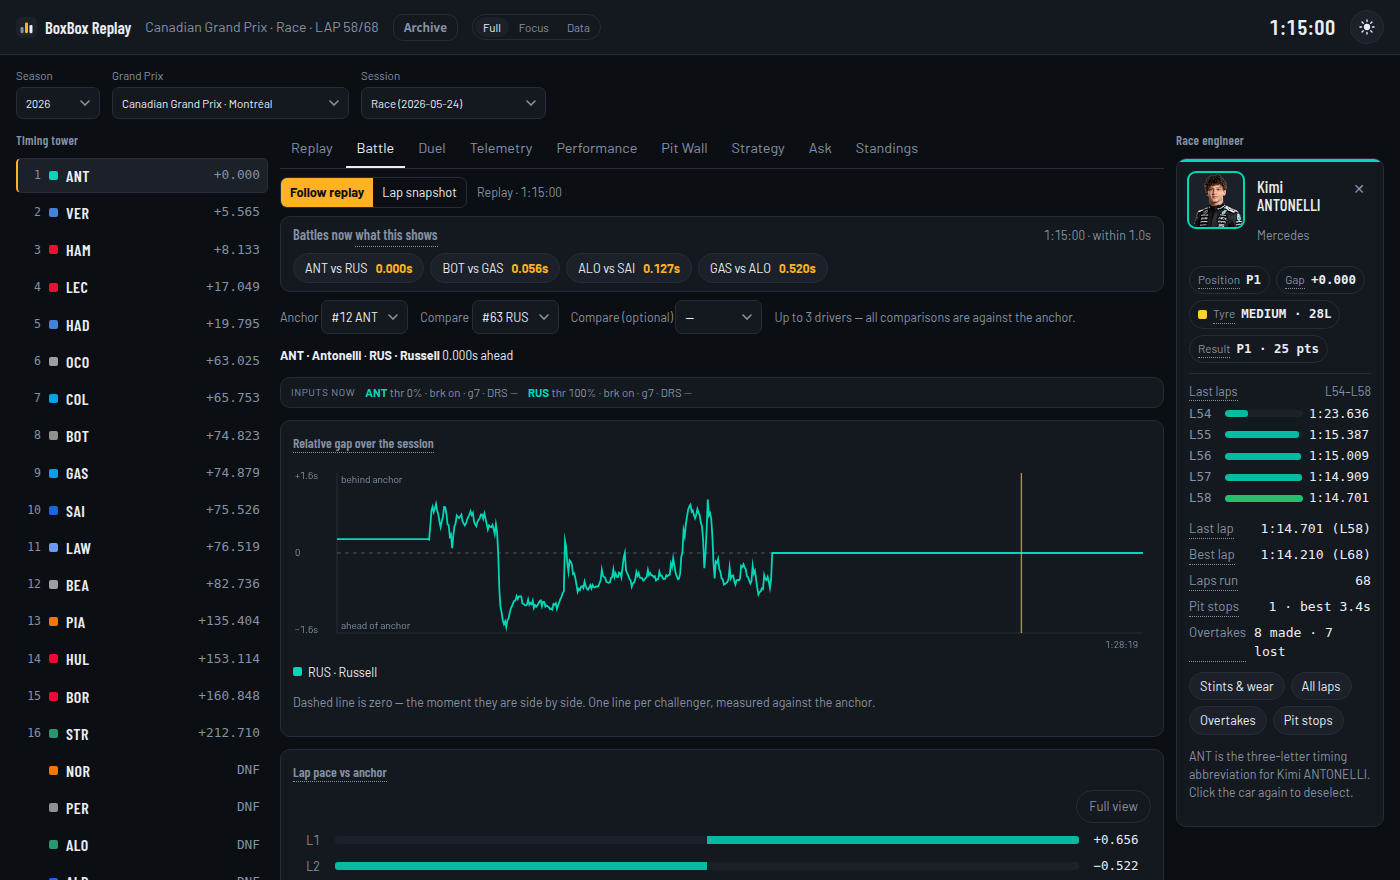
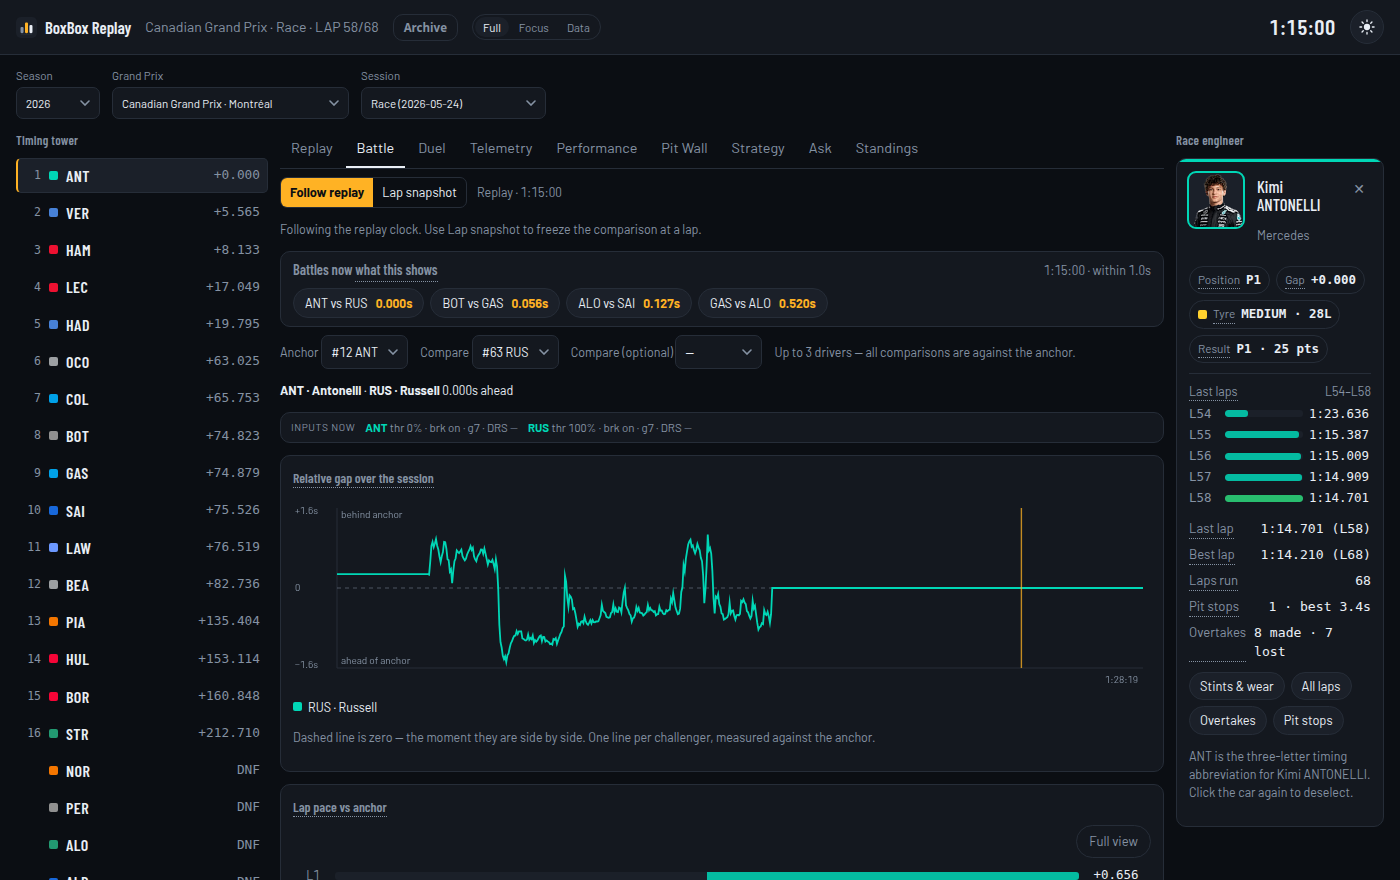
fix(v3.9): make battle snapshots truncate history; key headshot state per driver
- Battle snapshot stops the relative-gap chart, pace rows, overtakes and full-view
  pace modal at the selected lap; the note states the replay clock/tower are unchanged
- driver headshot ready/failed state is keyed by driver_number + URL, fixing stale
  fallbacks when switching cards
- share-card rotation re-verified at 1200x630
- 89 pytest + 74 vitest; docs/screenshots/state updated

diff --git a/web/src/components/BattlePanel.tsx b/web/src/components/BattlePanel.tsx
@@ -105,7 +105,8 @@ export default function BattlePanel(p: Props) {
 
   const lapsOf = (d: number) =>
     p.laps.filter((l) => l.driver_number === d && l.lap_duration != null).sort((x, y) => x.lap_number - y.lap_number);
-  const lapsAnchor = lapsOf(anchor);
+  const snapshotLap = scope === "lap" ? fixedMarker?.lap_number ?? Number.POSITIVE_INFINITY : Number.POSITIVE_INFINITY;
+  const lapsAnchor = lapsOf(anchor).filter((lap) => lap.lap_number <= snapshotLap);
   const bestOf = (d: number) => {
     const ls = lapsOf(d);
     return ls.length ? Math.min(...ls.map((l) => l.lap_duration as number)) : null;
@@ -180,6 +181,11 @@ export default function BattlePanel(p: Props) {
           </button>
         )}
       </div>
+      <p className="dim small battle-scope-note">
+        {scope === "replay"
+          ? "Following the replay clock. Use Lap snapshot to freeze the comparison at a lap."
+          : "Snapshot freezes Battles now, gap values, pace and inputs through this lap; the session charts stop at the snapshot. The main replay clock and tower are unchanged."}
+      </p>
 
       <section className="battles-now" aria-label="Battles at the current frame">
         <div className="battles-head">
@@ -291,11 +297,19 @@ export default function BattlePanel(p: Props) {
       <div className="panel">
         <h3>
           <Info
-            label="Relative gap over the session"
+            label={scope === "lap" ? `Relative gap through lap ${fixedMarker?.lap_number ?? "—"}` : "Relative gap over the session"}
             tip="Each line is a challenger's gap to the leader minus the anchor's. Above the line means that driver is behind the anchor; below means ahead. Hover for values."
           />
         </h3>
-        <RelativeGap playback={p.playback} table={p.table} anchor={anchor} challengers={challengers} colors={p.colors} labels={p.labels} />
+        <RelativeGap
+          playback={p.playback}
+          table={p.table}
+          anchor={anchor}
+          challengers={challengers}
+          colors={p.colors}
+          labels={p.labels}
+          endT={scope === "lap" ? now : p.playback.state.dur}
+        />
         <p className="dim small">
           Dashed line is zero — the moment they are side by side. One line per challenger, measured against the
           anchor.
@@ -378,6 +392,7 @@ export default function BattlePanel(p: Props) {
           const all = [anchor, ...challengers];
           const rel = p.overtakes
             .filter((o) => all.includes(o.overtaking_driver_number) || all.includes(o.overtaken_driver_number))
+            .filter((o) => scope === "replay" || o.t <= now)
             .sort((x, y) => x.t - y.t)
             .slice(0, 8);
           if (!rel.length) return <p className="dim small">None recorded involving these drivers.</p>;
@@ -411,6 +426,7 @@ export default function BattlePanel(p: Props) {
           challengers={challengers}
           labels={p.labels}
           colors={p.colors}
+          throughLap={scope === "lap" ? fixedMarker?.lap_number : undefined}
         />
       </Modal>
 
@@ -458,10 +474,11 @@ function RelativeGap(p: {
   challengers: number[];
   colors: Map<number, string>;
   labels: Map<number, string>;
+  endT?: number;
 }) {
   const { canvasRef, wrapRef, width, dpr } = useCanvasSize(H);
   const [hoverT, setHoverT] = useState<number | null>(null);
-  const dur = Math.max(1, p.playback.state.dur);
+  const dur = Math.max(1, p.endT ?? p.playback.state.dur);
 
   const series = useMemo(() => {
     const step = Math.max(1, dur / 700);

diff --git a/web/src/components/DriverCard.tsx b/web/src/components/DriverCard.tsx
@@ -1,4 +1,4 @@
-import { useEffect, useState } from "react";
+import { useState } from "react";
 import { compoundColor } from "../format";
 import { formatLapTime } from "../format";
 import Info from "./Info";
@@ -34,14 +34,11 @@ export default function DriverCard(p: Props) {
   const slowestRecent = recent.length ? Math.max(...recent.map((l) => l.lap_duration as number)) : null;
   const tyreAge = p.stint?.lap_start != null ? Math.max(1, p.lap - p.stint.lap_start + 1) : null;
   const color = `#${(p.driver.team_colour ?? "").replace("#", "")}`;
-  const [imageFailed, setImageFailed] = useState(false);
-  const [imageReady, setImageReady] = useState(false);
   const headshot = p.driver.headshot_url?.trim();
-
-  useEffect(() => {
-    setImageFailed(false);
-    setImageReady(false);
-  }, [p.driver.driver_number, headshot]);
+  const imageKey = `${p.driver.driver_number}:${headshot ?? ""}`;
+  const [imageState, setImageState] = useState({ key: "", ready: false, failed: false });
+  const imageReady = imageState.key === imageKey && imageState.ready;
+  const imageFailed = imageState.key === imageKey && imageState.failed;
 
   return (
     <div className="driver-card">
@@ -59,8 +56,8 @@ export default function DriverCard(p: Props) {
               loading="eager"
               referrerPolicy="no-referrer"
               style={{ borderColor: color, opacity: imageReady ? 1 : 0 }}
-              onLoad={() => setImageReady(true)}
-              onError={() => setImageFailed(true)}
+              onLoad={() => setImageState({ key: imageKey, ready: true, failed: false })}
+              onError={() => setImageState({ key: imageKey, ready: false, failed: true })}
             />
           )}
         </span>

diff --git a/web/src/components/BattleFullView.tsx b/web/src/components/BattleFullView.tsx
@@ -9,6 +9,7 @@ interface Props {
   challengers: number[];
   labels: Map<number, string>;
   colors: Map<number, string>;
+  throughLap?: number;
 }
 
 const H = 260;
@@ -20,7 +21,12 @@ export default function BattleFullView(p: Props) {
 
   const rows = useMemo(() => {
     const anchorLaps = p.laps
-      .filter((l) => l.driver_number === p.anchor && l.lap_duration != null)
+      .filter(
+        (l) =>
+          l.driver_number === p.anchor &&
+          l.lap_duration != null &&
+          (p.throughLap == null || l.lap_number <= p.throughLap),
+      )
       .sort((x, y) => x.lap_number - y.lap_number);
     return anchorLaps.map((la) => {
       const values = p.challengers.map((d) => {
@@ -35,7 +41,7 @@ export default function BattleFullView(p: Props) {
       });
       return { lap: la.lap_number, ta: la.lap_duration as number, values };
     });
-  }, [p.laps, p.anchor, p.challengers]);
+  }, [p.laps, p.anchor, p.challengers, p.throughLap]);
 
   const maxLap = Math.max(1, ...rows.map((r) => r.lap));
   const flat = rows.flatMap((r) => r.values.map((v) => v.delta)).filter((v): v is number => v != null).map(Math.abs);

diff --git a/README.md b/README.md
@@ -8,16 +8,14 @@ Free, no account, no live-timing subscription. Data comes from public archives a
 
 <sub>Canadian Grand Prix 2026, lap 58. Timing tower on the left, circuit and playback in the middle, driver card with headshot and race engineer on the right.</sub>
 
-> **Latest release: `v3.8.0`** — selectable Telemetry windows (replay lap / fixed lap / full session), Battle lap snapshots with a return-to-replay action, Detail/Overall mini-sectors, driver headshots, a corrected share card and a plain-language strategy recommendation. All screenshots below are from this build.
+> **Latest release: `v3.9.0`** — Battle snapshots now actually stop the history charts at the chosen lap, driver headshot state is keyed per driver so switching cards cannot leave a stale fallback, and the share card is verified with cars on the circuit. All screenshots below are from this build.
 
-## What's new in v3.8.0
+## What's new in v3.9.0
 
-- **Telemetry windows.** Hold the chart on an exact lap or the full session instead of the replay's moving lap window.
-- **Battle snapshots.** Freeze gaps, pace and inputs on a chosen lap, then jump back to the replay clock.
-- **Mini-sectors.** Switch **Detail** (mini-sector ticks) / **Overall** (sector time coloured against session/personal bests).
-- **Driver headshots.** OpenF1 supplies `headshot_url`; the card loads it with a number fallback. Images stay hosted by F1.
-- **Share card.** Cars are rotated with the circuit again, so they sit on the track instead of the footer.
-- **Strategy.** A projected recommendation banner and a plain “pit stop costs time, fresh tyres are faster” explanation sit above the detailed options.
+- **Battle snapshot, made real.** “Battles now”, gaps, pace and inputs freeze at the selected lap, while the relative-gap chart, pace rows and overtakes stop at that lap. The main replay clock and tower are explicitly unchanged; **Back to replay** restores the full history.
+- **Driver headshots fixed.** Image ready/failed state is keyed by driver number + URL, so switching from one driver to another no longer hides the new photo behind the number fallback.
+- **Share card rechecked.** The 1200×630 download places every car on the rotated circuit; labels are collision-limited and the footer stays clear.
+- **Prior v3.8 features remain:** Telemetry replay/fixed/full-session windows, Detail/Overall mini-sectors, strategy recommendation banner.
 
 | Championship standings | Results archive |
 |---|---|
@@ -45,7 +43,7 @@ Free, no account, no live-timing subscription. Data comes from public archives a
 - **Pit crews & overtakes (v3).** Stop-time distribution, median/best, outlier flags and the most overtakes, from the cached feeds.
 - **Championship standings (v3.6+).** A Standings tab resolves the current weekend to its championship round and shows the driver/team table plus a selectable points-by-round chart, per-round tooltips and a head-to-head table. Source: Jolpica F1 (CC BY-NC-SA 4.0), attributed in the panel; the archive is revalidated hourly and can be refreshed on demand.
 - **Results archive (v3.6+).** A separate, full-screen archive for every Jolpica season through 2026: season → race → result, with standings beside it. Results and standings only — replay telemetry starts in 2023. Season/race changes show explicit loading states; missing and future rounds have honest fallbacks.
-- **Selectable windows (v3.8).** Telemetry holds a replay lap, a fixed lap or the full session; Battle freezes at a lap snapshot and returns to replay. Mini-sectors switch between per-tick detail and per-sector overall.
+- **Selectable windows (v3.8/9).** Telemetry holds a replay lap, a fixed lap or the full session; Battle freezes at a lap snapshot, truncates its history charts to that lap, and returns to replay. Mini-sectors switch between per-tick detail and per-sector overall.
 - **Driver headshots (v3.8).** OpenF1's `headshot_url` is shown with a number fallback; the image is not rehosted.
 - **Duel and Battle comparisons (v3.7).** Duel overlays both full lap traces and compares throttle/brake/gear/DRS at the same lap progress; Battle adds point-in-time inputs for the anchor and challengers.
 - **Optional 3D replay (v3.5).** A `2D · 3D` switch on the Replay map; 3D is a lazy-loaded perspective view of the same cars and clock, with orbit and click-to-select. 2D stays the default and the analytical surface (corners, DRS, hover). The track ribbon is flat and its width is a visual constant, not measured data.

diff --git a/docs/V3_9_RESEARCH.md b/docs/V3_9_RESEARCH.md
@@ -1,0 +1,64 @@
+# V3.9 — Battle snapshot semantics and driver-image state
+
+**Question.** Why did Battle's lap snapshot appear to change only “Battles now”,
+why did every driver sometimes show the number fallback, and is the share card
+now correct?
+
+## 1. What a lap snapshot should mean
+
+The Battle tab has two kinds of content:
+
+- **Now content:** Battles now, anchor/challenger gaps, current inputs.
+- **History content:** relative gap over the session, lap pace vs anchor,
+  overtakes.
+
+Freezing only the first kind makes the control look inert: the historical charts
+still span the whole session. The narrow, useful definition is: a snapshot is a
+point in time, so history shown in snapshot mode should stop at that point. The
+main replay clock must not move.
+
+**Decision.** In Lap snapshot mode:
+
+- all “now” calculations use the selected lap marker;
+- the relative-gap chart ends at the snapshot;
+- lap-pace rows stop at the snapshot lap;
+- overtakes after the snapshot are hidden;
+- the full-view lap-pace modal uses the same limit;
+- an explicit note says the session charts stop at the snapshot;
+- Follow replay restores the full history.
+
+## 2. Driver headshots
+
+OpenF1 documents `headshot_url`; the live response confirms real F1 media URLs.
+The first implementation keyed the image-ready state only by a boolean. When a
+different driver was selected, the previous “ready” state survived one render,
+then the reset effect hid the new image before its `onLoad` could fire; the
+number fallback remained. The fix keys ready/failed state by
+`driver_number + headshot_url`, so each driver gets its own image lifecycle.
+
+## 3. Share card assessment
+
+The earlier failure was geometric: raw car coordinates were drawn against an
+already-rotated circuit outline, so cars fell below the track. The current card
+passes `angle` and rotates cars with the same transform. A 1200×630 download was
+checked: the cars sit on the circuit. No further layout change is needed.
+
+## Implementation result (v3.9.0)
+
+- Battle snapshot truncates the relative-gap canvas at the marker, filters pace
+  rows to the snapshot lap, hides later overtakes and applies the same limit to
+  the full-view pace modal. The scope note says the main replay clock/tower are
+  unchanged.
+- Driver headshot ready/failed state is keyed by `driver_number + headshot_url`;
+  switching ANT → STR keeps a real image instead of the number fallback.
+- Share card verified at 1200×630 with cars on the circuit.
+- Added pure window tests; 89 pytest + 74 vitest.
+
+## Sources
+
+1. OpenF1 `/drivers` documentation and `headshot_url` sample:
+   <https://openf1.org/docs/>
+2. OpenF1 lap markers / historical data behavior:
+   <https://openf1.org/docs/>
+3. Existing project geometry: `shareCard.ts` and `analysis.map_plane` (raw cars
+   vs rotated outline).

diff --git a/.claude/state/CURRENT_STATUS.md b/.claude/state/CURRENT_STATUS.md
@@ -1,5 +1,5 @@
 ## Project Phase
-v2 shipped (`v1.0.0`…`v2.13.1`). v3 complete through **`v3.8.0`**: V3.1 strategy, V3.2 Telemetry Lab, V3.3 grounded explain, V3.4a/c/d/e supporting analytics, the optional lazy **3D replay** (V3.5a), plus **championship standings** and the **results archive through 2026** (V3.5b/c, Jolpica), plus the v3.7 freshness/comparison/telemetry fixes and the v3.8 window/snapshot/mini/share-card pass.
+v2 shipped (`v1.0.0`…`v2.13.1`). v3 complete through **`v3.9.0`**: V3.1 strategy, V3.2 Telemetry Lab, V3.3 grounded explain, V3.4a/c/d/e supporting analytics, the optional lazy **3D replay** (V3.5a), plus **championship standings** and the **results archive through 2026** (V3.5b/c, Jolpica), plus the v3.7 freshness/comparison/telemetry fixes and the v3.8 window/snapshot/mini/share-card pass.
 DEPLOYED prod, healthy at http://localhost:8501.
 
 ## Completed
@@ -18,6 +18,7 @@ DEPLOYED prod, healthy at http://localhost:8501.
 - [x] 3D visual pass: procedural F1 cars, asphalt/start/corner detail, fitted camera
 - [x] v3.7 freshness/comparison/archive/telemetry fixes
 - [x] v3.8 Telemetry scopes, Battle snapshots, mini Detail/Overall, driver headshots, share-card rotation, strategy recommendation
+- [x] v3.9 Battle snapshot history truncation + headshot state keyed per driver
 
 ## Blocked / Deferred (deliberate, documented)
 - V2-4 historical Fight Finder: DEFERRED (noisy/sparse feeds)
@@ -32,4 +33,4 @@ DEPLOYED prod, healthy at http://localhost:8501.
 - Core data: OpenF1 historical (free, non-commercial, 3 req/s + 30 req/min, cached/single-flight). Jolpica results/standings are non-commercial CC BY-NC-SA 4.0 with attribution and a 1-hour cache. No secrets in repo/client; AI key server-only.
 
 ## Last Updated
-2026-11-15: `v3.8.0` shipped: selectable Telemetry windows, Battle lap snapshots, Detail/Overall mini-sectors, driver headshots, corrected share-card car rotation and a plain-language strategy recommendation. Builds on v3.7 freshness/standings/archive/telemetry fixes. 89 pytest + 74 vitest; ruff/tsc/build clean; CI green on `v3.8.0`; prod healthy.
+2026-11-15: `v3.9.0` shipped: Battle snapshot now truncates history charts and states the replay clock is unchanged; driver headshot state is keyed per driver; share-card rotation re-verified. selectable Telemetry windows, Battle lap snapshots, Detail/Overall mini-sectors, driver headshots, corrected share-card car rotation and a plain-language strategy recommendation. Builds on v3.7 freshness/standings/archive/telemetry fixes. 89 pytest + 74 vitest; ruff/tsc/build clean; CI green on `v3.9.0`; prod healthy.

diff --git a/docs/V3_9_PLAN.md b/docs/V3_9_PLAN.md
@@ -1,0 +1,27 @@
+# V3.9 — Implementation plan
+
+Release `v3.9.0` — implemented; one commit for the code, one for screenshots/docs.
+
+## Code
+
+1. Battle snapshot:
+   - truncate the relative-gap canvas at the snapshot `t`;
+   - filter lap-pace rows to the snapshot lap;
+   - filter overtakes after the snapshot;
+   - apply the same lap limit to the full-view pace modal;
+   - add a scope note explaining what freezes.
+2. Driver images:
+   - key ready/failed state by driver number + URL;
+   - keep the number fallback until the image is ready;
+   - handle quick driver switching without a stale blank image.
+3. Share card: no code change unless verification finds a remaining geometry bug.
+
+## Verification
+
+- Pure tests for window resolvers and share-card layout.
+- Browser: switch two drivers and confirm both headshots load; snapshot at an
+  early lap shortens the pace rows and changes the gap chart end; Back to replay
+  restores the full rows; share-card download is 1200×630 with cars on track.
+- 89 pytest + 74 vitest; tsc/build; browser checks; no page errors.
+- Update README, ARCHITECTURE, TESTING, state and affected screenshots; tag
+  `v3.9.0` and deploy.

diff --git a/.claude/state/DECISIONS_LOG.md b/.claude/state/DECISIONS_LOG.md
@@ -205,6 +205,18 @@
 **Impact:** v3.8.0; docs/screenshots/state updated
 ---
 
+## v3.9 Battle Snapshot Decision (2026-11-15)
+
+---
+**Decision:** D14 — Snapshot truncates history, and image state is per driver
+**Date:** 2026-11-15
+**Context:** Battle snapshot only appeared to change “Battles now”; driver cards showed fallback images after switching drivers
+**Rationale:** A point-in-time snapshot must stop historical charts at that point, or it reads as inert. The main playback stays independent. Headshot state keyed only by a boolean leaked across reused cards; keying by driver+URL gives each card its own lifecycle.
+**Alternatives Rejected:** Only freezing “Battles now” (confusing); moving the global replay clock (destructive); rehosting headshots (rights/caching)
+**Security Implications:** Remote images remain optional and fall back to a number
+**Impact:** v3.9.0; docs/screenshots/state updated
+---
+
 ## Decision Template (copy for every new decision)
 
 ---

diff --git a/CLAUDE.md b/CLAUDE.md
@@ -8,7 +8,7 @@
 
 BoxBox Replay: F1 telemetry viz, v2 shipped (React SPA + FastAPI). Replay, lap
 duel, inputs, pit wall, AI Ask, Battles, championship standings, a results
-archive through 2026 and an optional 3D replay now are live; 89 pytest + 74 vitest, CI green on `v3.8.0`.
+archive through 2026 and an optional 3D replay now are live; 89 pytest + 74 vitest, CI green on `v3.9.0`.
 
 ## Always-Loaded Context
 
@@ -40,7 +40,7 @@ Stack: FastAPI/Python 3.12 + React/Vite/TS, Docker Compose, OpenCode Go for AI.
 
 | Purpose      | Command           | Status          |
 |--------------|-------------------|-----------------|
-| Run / dev    | `./scripts/setup.sh` (docker: api + web, port 8501) | v3.8.0 verified |
+| Run / dev    | `./scripts/setup.sh` (docker: api + web, port 8501) | v3.9.0 verified |
 | Test (API)   | `.venv/bin/python -m pytest` | 89 pass |
 | Test (web)   | `cd web && npm test` (vitest) | 74 pass |
 | Lint (API)   | `.venv/bin/python -m ruff check .` | clean |

diff --git a/docs/screenshots/README.md b/docs/screenshots/README.md
@@ -1,6 +1,6 @@
 # Screenshots
 
-Refreshed against **v3.8.0** on 2026-11-15. Captured from the running app at
+Refreshed against **v3.9.0** on 2026-11-15. Captured from the running app at
 1400×880, with phone captures at 390×844 and the narrow chat at 720×810.
 They are referenced from the root README and this page.
 
@@ -44,4 +44,5 @@ They are referenced from the root README and this page.
 | `12-dashboard-recent.png` | Continue list with remove/clear controls |
 | `37-standings-head-to-head.png` | Driver A/B points and Δ for every round |
 | `38-mini-overall.png` | Overall mini-sectors: sector times vs session/personal bests |
-| `39-battle-snapshot.png` | Battle frozen on a lap snapshot with Back to replay |
+| `39-battle-snapshot.png` | Battle snapshot at lap 20: history truncated, Back to replay shown |
+| `40-driver-headshot.png` | Driver card with an OpenF1 headshot and number fallback |

diff --git a/.claude/state/TASK_QUEUE.md b/.claude/state/TASK_QUEUE.md
@@ -99,7 +99,7 @@ Rule for all: one milestone = one commit (`feat(mX): ...`), tests + ruff clean b
 
 ## v3 backlog — planned (see `docs/V3_RESEARCH.md`, `docs/V3_PLAN.md`, `docs/V3_CORE_IMPLEMENTATION_PLAN.md`)
 
-Status: **v3 complete** through `v3.8.0` — V3.1–V3.4e + V3.4a/c, 3D (V3.5a), and the Jolpica archive/standings (V3.5b/c, D11). See `docs/V3_8_PLAN.md`, `docs/V3_7_PLAN.md`, `docs/V3_6_DATA_RESEARCH.md` and `docs/V3_5_3D_RESEARCH.md`.
+Status: **v3 complete** through `v3.9.0` — V3.1–V3.4e + V3.4a/c, 3D (V3.5a), and the Jolpica archive/standings (V3.5b/c, D11). See `docs/V3_9_PLAN.md`, `docs/V3_8_PLAN.md`, `docs/V3_7_PLAN.md`, `docs/V3_6_DATA_RESEARCH.md` and `docs/V3_5_3D_RESEARCH.md`.
 
 | ID | Task | Status | Depends | Scope (summary) | Acceptance (summary) | Notes / gates |
 |----|------|--------|---------|-----------------|----------------------|---------------|

diff --git a/.claude/state/HISTORY.md b/.claude/state/HISTORY.md
@@ -584,3 +584,9 @@ sector times coloured against session/personal bests; share-card cars are now
 rotated with the already-rotated outline; DriverCard shows OpenF1 `headshot_url`
 with a number fallback; strategy has a plain-language recommendation banner.
 89 pytest + 74 vitest.
+
+v3.9.0: Battle snapshot now truncates the relative-gap chart, pace rows and
+overtakes at the selected lap, with a note that the main replay clock/tower are
+unchanged. Driver headshot ready/failed state is keyed by driver+URL so rapid
+driver switching keeps real images and falls back only on failure. Share-card
+rotation re-verified. 89 pytest + 74 vitest.
